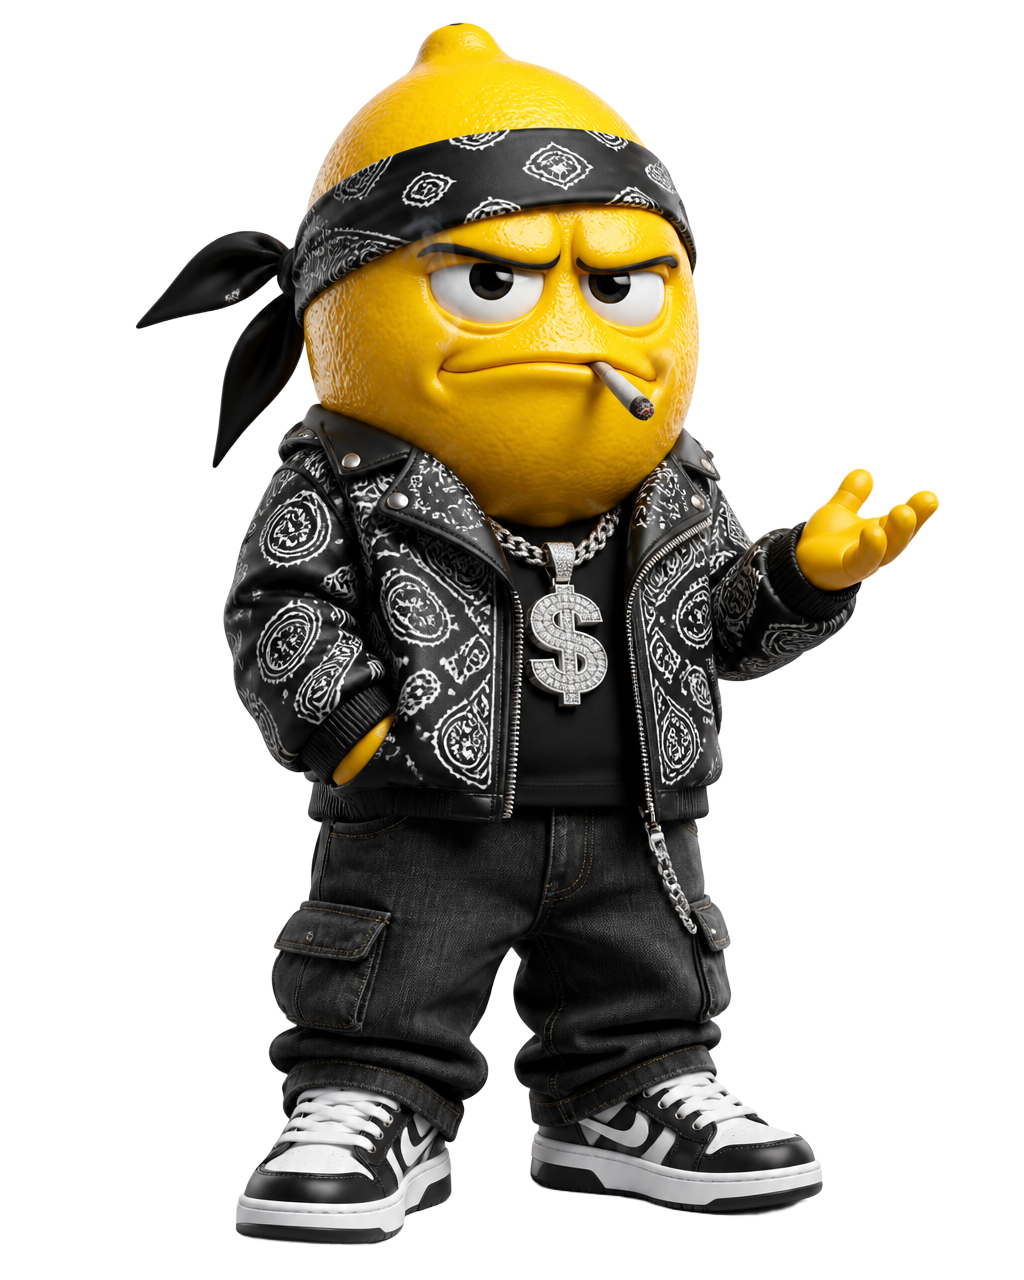
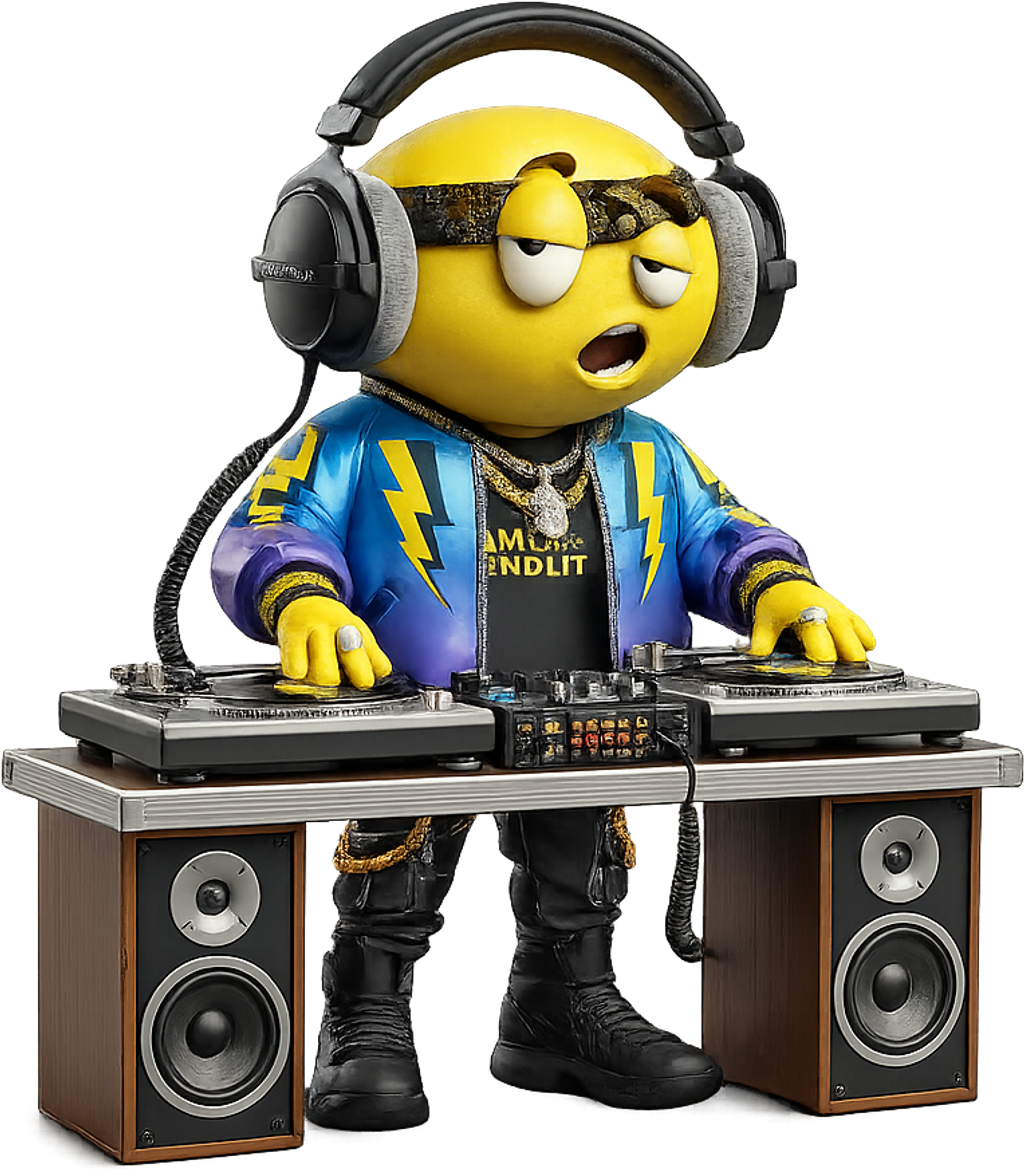
Pre-existing local changes: bounded hero mascot and regenerated assets
The Hero.tsx delta bounds `[data-limon]` on both axes and caps its width,
so a square replacement mascot no longer pushes the page sideways at 52svh
on a 390pt phone. It also removes a dead GSAP tween whose target was gone,
which had been printing a warning on every landing-page load.

Nothing here was authored in this session; these files were dirty before
and are committed on their own so the session's own commits stay focused.

diff --git a/src/components/sections/Hero.tsx b/src/components/sections/Hero.tsx
@@ -127,11 +127,11 @@ export function Hero() {
         { y: 16, opacity: 0, duration: 0.6, ease: "expo.out", immediateRender: false },
         0.95,
       );
-      tl.from(
-        "[data-hero-micro]",
-        { opacity: 0, duration: 0.5, ease: "power2.out", immediateRender: false },
-        1.2,
-      );
+      /* The [data-hero-micro] tween that used to sit here is gone with the
+       * elements it drove — the scroll cue and the clock/coordinates line
+       * were removed from the bottom rule. GSAP does not fail on a selector
+       * that matches nothing, it warns, so this survived as console noise on
+       * every load of the landing page rather than as a broken animation. */
 
       /* Atmosphere, not action — the one thing that moves at rest.
        * Lives on a child of the element the scene scales. */
@@ -181,11 +181,7 @@ export function Hero() {
       tl.to(medallionRef.current, { scale: 1, duration: 0.2, ease: "power2.in" }, 2.2);
 
       /* ---- phase 3 — the poster concedes (2.2 → 3.2) ---- */
-      tl.to(
-        "[data-hero-station], [data-hero-micro]",
-        { y: -24, opacity: 0, duration: 0.7, stagger: 0.08 },
-        2.2,
-      );
+      tl.to("[data-hero-station]", { y: -24, opacity: 0, duration: 0.7, stagger: 0.08 }, 2.2);
       tl.to(wordWrapRef.current, { opacity: 0.12, y: "6vh", duration: 1.0 }, 2.2);
       /* he leaves without growing — the exit is blur and fade only */
       tl.to(limonRef.current, { filter: "blur(6px)", opacity: 0, duration: 0.8 }, 2.8);
@@ -433,11 +429,19 @@ export function Hero() {
        * He is the poster on a phone, not a prop in it — 52svh, roughly
        * double what he was, which puts his head just over the top of the
        * wordmark exactly as it reads on desktop. Anchored in svh rather
-       * than px so the composition holds from a 667pt SE to a 932pt Max. */}
+       * than px so the composition holds from a 667pt SE to a 932pt Max.
+       *
+       * The box is bounded on BOTH axes and the artwork is object-contain
+       * inside it. Height alone used to drive the size, with `max-w-none`
+       * explicitly removing any cap — fine for the 4:5 portrait that was
+       * here, and an overflow the moment the art changes shape: a square
+       * mascot at 52svh is 439px wide on a 390px screen. Bounding the width
+       * too means any replacement letterboxes inside the frame instead of
+       * pushing the page sideways. */}
       <div
         ref={limonWrapRef}
         data-limon
-        className="pointer-events-none absolute bottom-[18svh] left-1/2 z-[5] h-[52svh] -translate-x-1/2 md:bottom-[8svh] md:h-[54vh] lg:h-[62vh] 2xl:h-[68vh]"
+        className="pointer-events-none absolute bottom-[18svh] left-1/2 z-[5] h-[52svh] w-[92vw] max-w-[560px] -translate-x-1/2 md:bottom-[8svh] md:h-[54vh] md:w-[54vw] lg:h-[62vh] lg:w-[48vw] lg:max-w-[720px] 2xl:h-[68vh]"
       >
         {/* scene layer — the tilt pivots on his stance, not his centre */}
         <div ref={limonRef} className="h-full w-full" style={{ transformOrigin: "50% 85%" }}>
@@ -451,7 +455,7 @@ export function Hero() {
             alt="Limon, the Limon Bandit mascot: a lemon in a bandana and leather jacket"
             sizes="(max-width: 767px) 90vw, (max-width: 1023px) 360px, 660px"
             priority
-            className="block h-full w-auto max-w-none object-contain"
+            className="block h-full w-full object-contain"
             style={{ filter: "saturate(0.92) drop-shadow(0 40px 80px var(--limon-shadow))" }}
           />
         </div>
